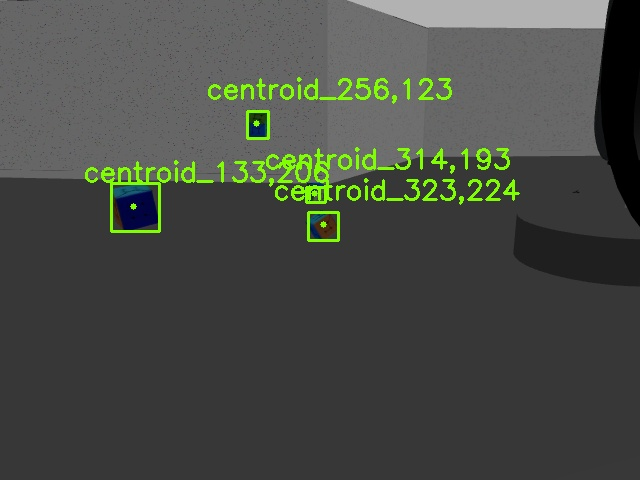
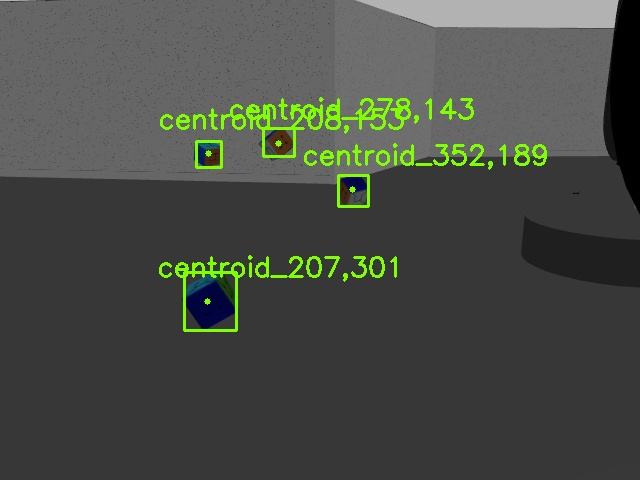
csv updated

diff --git a/catkin_ws/src/stage03/scripts/vision.py b/catkin_ws/src/stage03/scripts/vision.py
@@ -209,7 +209,7 @@ def callback_status(data):
             boundRect = cv2.boundingRect(contour)
             image2=cv2.rectangle(im_hsv,(boundRect[0], boundRect[1]),(boundRect[0]+boundRect[2], boundRect[1]+boundRect[3]), (255,255,255), 2)
             cv2.circle(image2, (cX, cY), 3, (255, 255, 255), -1)
-            cv2.putText(image2, "centroid_"+str(cX)+','+str(cY)    ,    (cX - 50, cY - 25)   ,cv2.FONT_HERSHEY_SIMPLEX, 0.9, (255, 255, 255), 2)
+            #cv2.putText(image2, "centroid_"+str(cX)+','+str(cY)    ,    (cX - 50, cY - 25)   ,cv2.FONT_HERSHEY_SIMPLEX, 0.9, (255, 255, 255), 2)
         #cv2.imshow("Imagen con centroides: ", cv2.cvtColor( image2, cv2.COLOR_HSV2RGB))
         cv2.imwrite(os.path.join(path , 'ImagenConCentroides_cube.jpg'), cv2.cvtColor( image2, cv2.COLOR_HSV2RGB))
         #cv2.waitKey(10)
@@ -369,7 +369,7 @@ def callback_status(data):
         time.sleep(5)
         pub.publish(True)
         #Apuntamos hacia abajo para las llave
-        head.go(np.array((0, -0.35*np.pi)))
+        head.go(np.array((0, -0.30*np.pi)))
 
 
 
